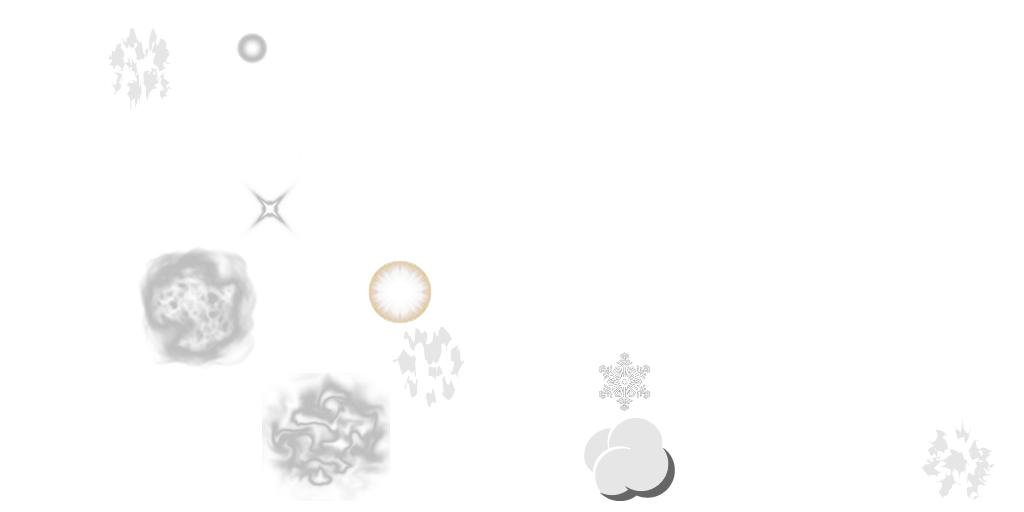
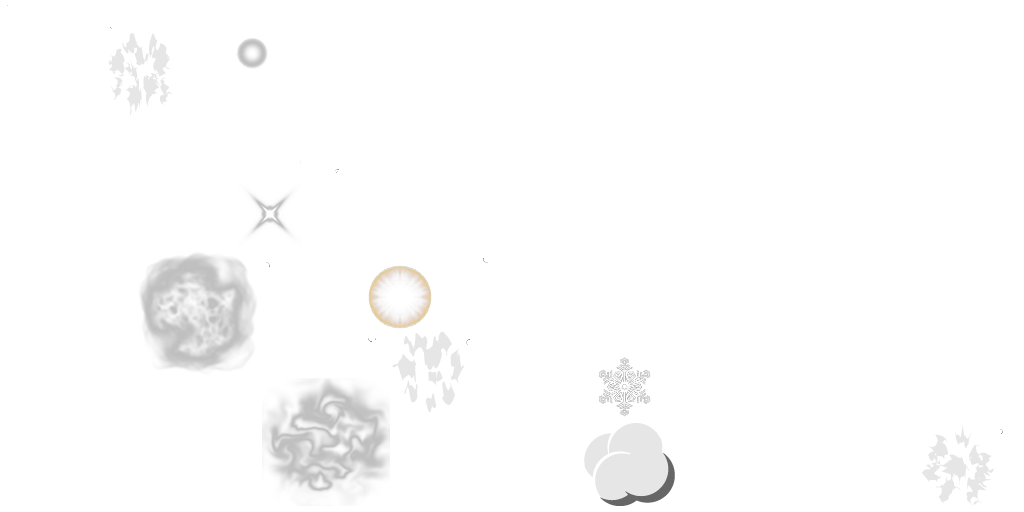
refactor: consolidate effect frames into particles.atlas, drop multi-atlas support

diff --git a/core/src/main/java/com/ray3k/gdxparticleeditor/Utils.java b/core/src/main/java/com/ray3k/gdxparticleeditor/Utils.java
@@ -13,7 +13,6 @@ import com.badlogic.gdx.graphics.g2d.ParticleEffect;
 import com.badlogic.gdx.graphics.g2d.ParticleEmitter;
 import com.badlogic.gdx.graphics.g2d.ParticleEmitter.SpriteMode;
 import com.badlogic.gdx.graphics.g2d.Sprite;
-import com.badlogic.gdx.graphics.g2d.TextureAtlas.AtlasRegion;
 import com.badlogic.gdx.graphics.glutils.ShaderProgram;
 import com.badlogic.gdx.math.MathUtils;
 import com.badlogic.gdx.net.HttpRequestBuilder;
@@ -119,35 +118,6 @@ public class Utils {
         ShaderProgram.pedantic = false;
     }
 
-    /**
-     * Finds an image region by name across {@link Core#defaultAtlas} and any project-specific atlases in
-     * {@link Core#additionalAtlases}. The default atlas is searched first; additional atlases follow in load order.
-     *
-     * @return the first matching region, or null if no loaded atlas contains it
-     */
-    public static AtlasRegion findAtlasRegion(String regionName) {
-        if (defaultAtlas != null) {
-            var region = defaultAtlas.findRegion(regionName);
-            if (region != null) return region;
-        }
-        for (var atlas : additionalAtlases) {
-            var region = atlas.findRegion(regionName);
-            if (region != null) return region;
-        }
-        return null;
-    }
-
-    /**
-     * @return true if the texture is owned by a loaded atlas and therefore must not be disposed along with a particle effect
-     */
-    public static boolean isAtlasTexture(Texture texture) {
-        if (defaultAtlas != null && defaultAtlas.getTextures().contains(texture)) return true;
-        for (var atlas : additionalAtlases) {
-            if (atlas.getTextures().contains(texture)) return true;
-        }
-        return false;
-    }
-
     public static boolean loadParticle(FileHandle fileHandle) {
         return loadParticle(fileHandle, null, true);
     }
@@ -162,7 +132,7 @@ public class Utils {
                 else {
                     for (var imageFile : imageFileMap) {
                         var regionName = imageFile.value.nameWithoutExtension();
-                        var region = findAtlasRegion(regionName);
+                        var region = defaultAtlas != null ? defaultAtlas.findRegion(regionName) : null;
                         var sprite = region != null ? new Sprite(region) : new Sprite(new Texture(imageFile.value));
                         sprites.put(imageFile.key, sprite);
                     }
@@ -268,11 +238,12 @@ public class Utils {
     public static void disposeParticleEffect() {
         if (particleEffect == null)
             return;
+        var atlasTextures = defaultAtlas != null ? defaultAtlas.getTextures() : null;
         for (int i = 0, n = particleEffect.getEmitters().size; i < n; i++) {
             ParticleEmitter emitter = particleEffect.getEmitters().get(i);
             for (Sprite sprite : emitter.getSprites()) {
                 var texture = sprite.getTexture();
-                if (!isAtlasTexture(texture))
+                if (atlasTextures == null || !atlasTextures.contains(texture))
                     texture.dispose();
             }
         }
@@ -297,7 +268,7 @@ public class Utils {
                 else {
                     for (var imageFile : imageFileMap) {
                         var regionName = imageFile.value.nameWithoutExtension();
-                        var region = findAtlasRegion(regionName);
+                        var region = defaultAtlas != null ? defaultAtlas.findRegion(regionName) : null;
                         var sprite = region != null ? new Sprite(region) : new Sprite(new Texture(imageFile.value));
                         sprites.put(imageFile.value.name(), sprite);
                     }
@@ -369,7 +340,7 @@ public class Utils {
         var path = fileHandle.name();
         emitter.getImagePaths().add(path);
         fileHandles.put(path, fileHandle);
-        var particleRegion = findAtlasRegion("particle");
+        var particleRegion = defaultAtlas != null ? defaultAtlas.findRegion("particle") : null;
         var sprite = particleRegion != null ? new Sprite(particleRegion) : new Sprite(new Texture(fileHandle));
         sprites.put(path, sprite);
         emitter.getSprites().add(sprite);
@@ -597,9 +568,10 @@ public class Utils {
     public static void reloadSprites() {
         UndoManager.clear();
 
+        var atlasTextures = defaultAtlas != null ? defaultAtlas.getTextures() : null;
         for (var sprite : sprites.values()) {
             var texture = sprite.getTexture();
-            if (!isAtlasTexture(texture))
+            if (atlasTextures == null || !atlasTextures.contains(texture))
                 texture.dispose();
         }
         sprites.clear();
@@ -607,7 +579,7 @@ public class Utils {
             emitter.getSprites().clear();
             for (var path : emitter.getImagePaths()) {
                 var regionName = path.contains(".") ? path.substring(0, path.lastIndexOf('.')) : path;
-                var region = findAtlasRegion(regionName);
+                var region = defaultAtlas != null ? defaultAtlas.findRegion(regionName) : null;
                 var sprite = region != null ? new Sprite(region) : new Sprite(new Texture(fileHandles.get(path)));
                 sprites.put(path, sprite);
                 emitter.getSprites().add(sprite);
@@ -627,7 +599,7 @@ public class Utils {
                 var normalizedPath = imagePath.replace('\\', '/');
                 var imageName = new File(normalizedPath).getName();
                 var regionName = imageName.contains(".") ? imageName.substring(0, imageName.lastIndexOf('.')) : imageName;
-                var region = findAtlasRegion(regionName);
+                var region = defaultAtlas != null ? defaultAtlas.findRegion(regionName) : null;
                 if (region != null) {
                     emitterSprites.add(new Sprite(region));
                 } else {

diff --git a/core/src/main/java/com/ray3k/gdxparticleeditor/Core.java b/core/src/main/java/com/ray3k/gdxparticleeditor/Core.java
@@ -188,19 +188,6 @@ public class Core extends ApplicationAdapter {
     public static TextureAtlas defaultAtlas;
 
     /**
-     * Optional project-specific texture atlases packed separately from the bundled assets/images/ set (for example,
-     * game particle art kept apart from the editor's sample assets). Searched after {@link #defaultAtlas} when
-     * resolving image regions. Empty when none are present next to the working directory.
-     */
-    public static final Array<TextureAtlas> additionalAtlases = new Array<>();
-
-    /**
-     * File names of the optional atlases loaded into {@link #additionalAtlases} at startup, resolved as internal files
-     * relative to the working directory. Missing files are skipped silently.
-     */
-    public static final String[] ADDITIONAL_ATLAS_PATHS = {"effect.atlas"};
-
-    /**
      * The default name to be used when the user saves the ParticleEffect.
      */
     public static String defaultFileName;
@@ -367,10 +354,6 @@ public class Core extends ApplicationAdapter {
 
         activeEmitters = new OrderedMap<>();
         defaultAtlas = new TextureAtlas(Gdx.files.internal("particles.atlas"));
-        for (var atlasPath : ADDITIONAL_ATLAS_PATHS) {
-            var atlasFile = Gdx.files.internal(atlasPath);
-            if (atlasFile.exists()) additionalAtlases.add(new TextureAtlas(atlasFile));
-        }
 
         Listeners.initializeListeners();
 
@@ -395,8 +378,6 @@ public class Core extends ApplicationAdapter {
     @Override
     public void dispose() {
         if (defaultAtlas != null) defaultAtlas.dispose();
-        for (var atlas : additionalAtlases) atlas.dispose();
-        additionalAtlases.clear();
     }
 
     public static void populate(String openTable) {
